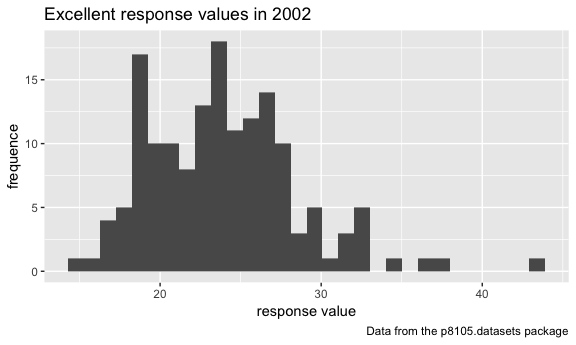
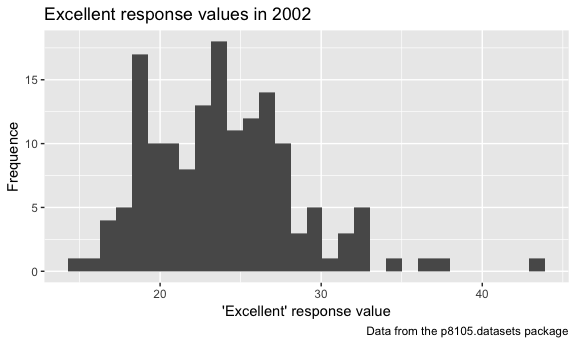
revise for problem 3

Changed region(s): [[0.375, 0.8696, 0.6875, 0.9275], [0.0, 0.3478, 0.0312, 0.5507]]

diff --git a/p8105_hw2_xy2397.md b/p8105_hw2_xy2397.md
@@ -258,6 +258,14 @@ library(p8105.datasets)
 For this question: • format the data to use appropriate variable names; • focus on the “Overall Health” topic • exclude variables for class, topic, question, sample size, and everything from lower confidence limit to GeoLocation • structure data so that responses (excellent to poor) are variables taking the value of Data\_value • create a new variable showing the proportion of responses that were “Excellent” or “Very Good”
 
 ``` r
+# read the data "brfss_smart2010" from the p8105.datasets package
+# clean up variable names
+# filter the data to only focus on "Overall Health" topic
+# exclude variables for class, topic, question, sample size, and everything from lower confidence limit to GeoLocation
+# spread the data so that responses (excellent to poor) are variables taking the value of data_value
+# clean up variable names again
+# create a variable that show that proportion of responses with “Excellent” or “Very Good”
+
 brfss = 
   brfss_smart2010 %>% 
   janitor::clean_names() %>% 
@@ -265,7 +273,7 @@ brfss =
   select(., -class, -topic, -question, -sample_size, -(confidence_limit_low:geo_location)) %>%
   spread(key = "response", value = "data_value") %>% 
   janitor::clean_names() %>% 
-  mutate(excellent_verygood_proportion = (excellent + very_good)/(excellent + very_good + good + fair + poor)) 
+  mutate(excellent_verygood_prop = (excellent + very_good)/(excellent + very_good + good + fair + poor)) 
 ```
 
 Using this dataset, do or answer the following:
@@ -273,12 +281,14 @@ Using this dataset, do or answer the following:
 • How many unique locations are included in the dataset? Is every state represented? What state is observed the most?
 
 ``` r
+# number of unique locations in the dataset
 length(unique(brfss$locationdesc))
 ```
 
     ## [1] 404
 
 ``` r
+# number of unique states in the dataset
 length(unique(brfss$locationabbr))
 ```
 
@@ -287,6 +297,7 @@ length(unique(brfss$locationabbr))
 There are 404 unique location included in the dataset, and every state represented, since there is totally 51 states in the US, and the unique states included in the dataset is exactly 51.
 
 ``` r
+# table the name of the states and the frequency of each states in the dataset
 table(brfss$locationabbr)
 ```
 
@@ -299,18 +310,21 @@ table(brfss$locationabbr)
     ##  40  33  59  38  63  18  26  71  50   4  48  97   9   9  22
 
 ``` r
+# calculate the maximum frequency of the states in the dataset
 max(table(brfss$locationabbr))
 ```
 
     ## [1] 146
 
-NJ is observed the most.
+So from the results we calculated for the maximum frequency of the states in the dataset, we can figure out that NJ is the state that observed the most.
 
 • In 2002, what is the median of the “Excellent” response value?
 
 ``` r
+# filter the data for year 2002
 brfss_2002 = filter(brfss, year == "2002", !is.na(excellent))
 
+# calculate the median of excellent
 median(brfss_2002$excellent)
 ```
 
@@ -319,12 +333,13 @@ median(brfss_2002$excellent)
 • Make a histogram of “Excellent” response values in the year 2002.
 
 ``` r
+# use ggplot to plot the histogram of “Excellent” response values in the year 2002
 ggplot(brfss_2002, aes(x = excellent)) +
   geom_histogram() +
   labs(
     title = "Excellent response values in 2002",
-    x = "response value",
-    y = "frequence",
+    x = "'Excellent' response value",
+    y = "Frequence",
     caption = "Data from the p8105.datasets package"
   ) 
 ```
@@ -336,6 +351,10 @@ ggplot(brfss_2002, aes(x = excellent)) +
 • Make a scatterplot showing the proportion of “Excellent” response values in New York County and Queens County (both in NY State) in each year from 2002 to 2010.
 
 ``` r
+# filter the data in New York County and Queens County
+# create a new variable to show the proportion of “Excellent” response values
+# use ggplot to draw the scatterplot 
+
 brfss %>% 
   filter(locationdesc %in% c("NY - New York County", "NY - Queens County")) %>% 
   mutate(excellent_prop = (excellent)/(excellent + very_good + good + fair + poor))  %>% 
@@ -344,7 +363,7 @@ brfss %>%
   labs(
     title = "Proportion of Excellent response values from 2002 to 2010",
     x = "Year",
-    y = "Proportion of excellent response values ",
+    y = "Proportion of 'Excellent' response values ",
     caption = "Data from the p8105.datasets package"
   ) +
 scale_color_hue(
